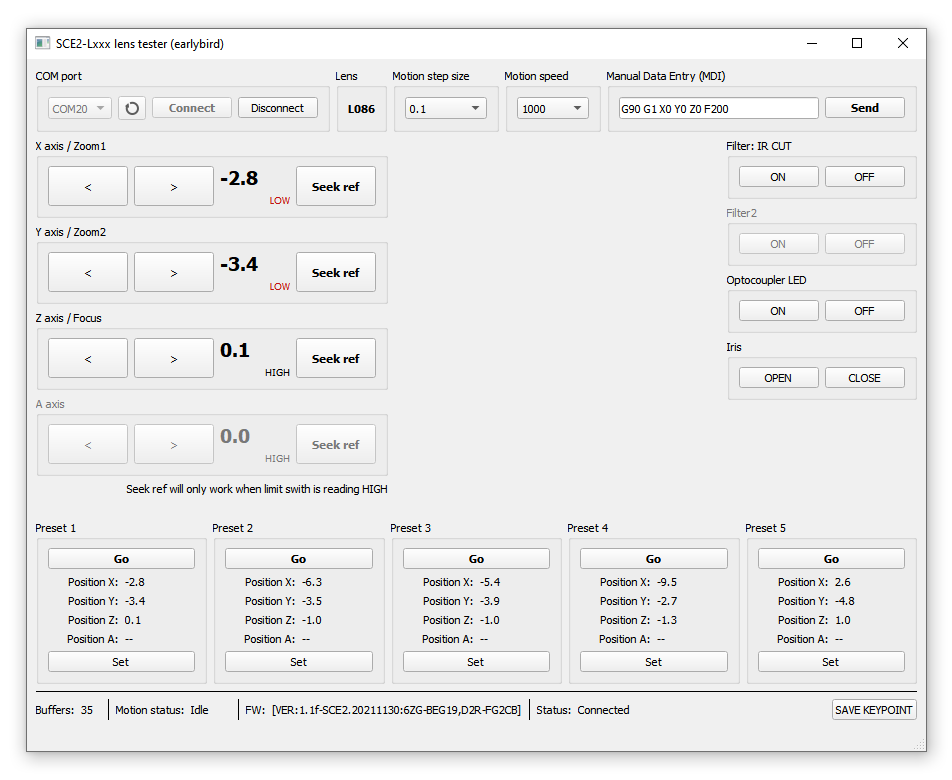
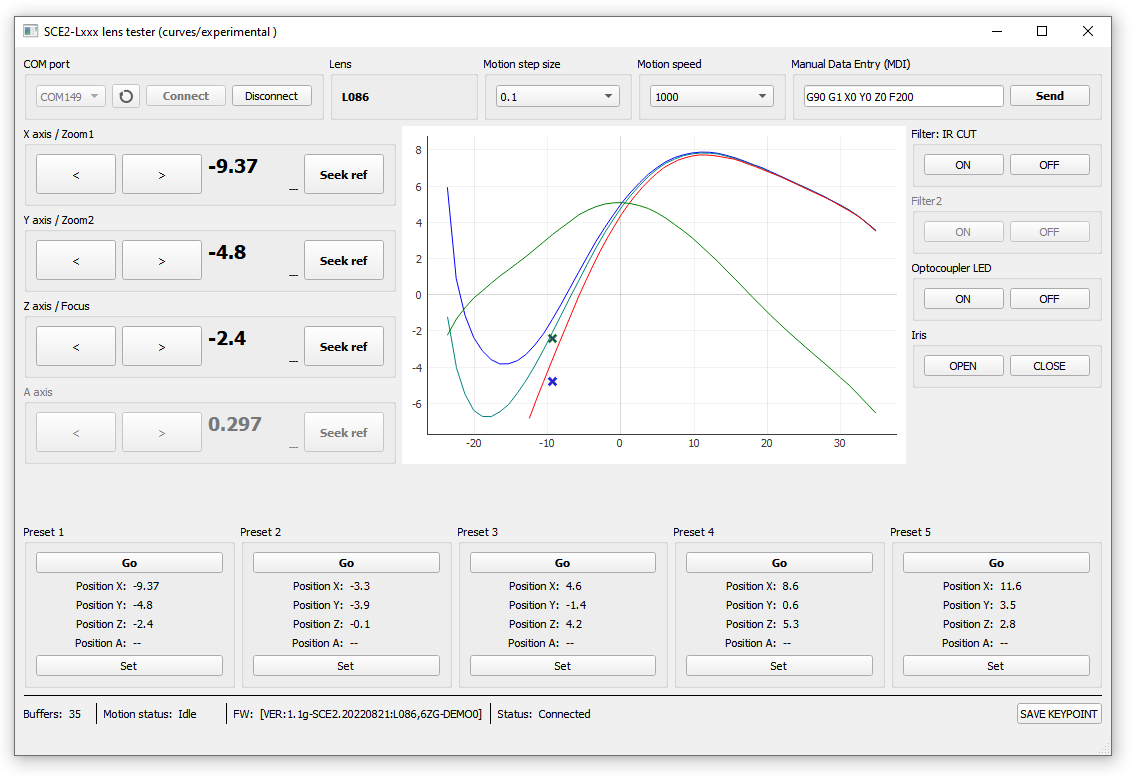
housekeeping

diff --git a/04_lens_tester_gui_curves/main.py b/04_lens_tester_gui_curves/main.py
@@ -84,6 +84,7 @@ class MyWindowClass(QtWidgets.QMainWindow, gui.Ui_MainWindow):
 
         # wwwwwwwwwwwwwwwwwwwwwwwwwwwwwwwww
 
+        '''
         #self.plot = self.win.addPlot(axisItems={'bottom': TimeAxisItem(orientation='bottom')})
         self.plot = self.win.addPlot()
         self.plot.showGrid(True, True, 0.2)
@@ -101,7 +102,6 @@ class MyWindowClass(QtWidgets.QMainWindow, gui.Ui_MainWindow):
         #pfill = pg.FillBetweenItem(self.phigh, self.plow, brush=(100, 255, 100, 100))
         #self.plot.addItem(pfill)
         
-        
         # TODO: move to config file, plot once loaded
         # TODO: clean after fresh load
         # TODO: add legend
@@ -113,7 +113,7 @@ class MyWindowClass(QtWidgets.QMainWindow, gui.Ui_MainWindow):
         self.plot_focus_inf.setData(x=zoom_inf, y=focus_inf)
 
         zoom_correction = [-23.18, -21.98, -20.8, -19.6, -18.41, -17.22, -16.02, -14.83, -13.63, -12.45, -11.25, -10.06, -8.871, -7.675, -6.479, -5.294, -4.098, -2.902, -1.717, -0.5213, 0.6746, 1.87, 3.056, 4.252, 5.447, 6.633, 7.828, 9.024, 10.21, 11.41, 12.6, 13.8, 14.98, 16.18, 17.37, 18.56, 19.76, 20.95, 22.14, 23.33, 24.53, 25.71, 26.91, 28.1, 29.3, 30.49, 31.68, 32.88, 34.06, 35.26]
-        correction = [-1.71, -0.84, -0.216, 0.323, 0.724, 1.14, 1.54, 1.89, 2.26, 2.62, 3.02, 3.42, 3.82, 4.19, 4.54, 4.91, 5.16, 5.37, 5.51, 5.58, 5.59, 5.53, 5.42, 5.26, 5.02, 4.73, 4.38, 4.03, 3.65, 3.21, 2.76, 2.31, 1.81, 1.33, 0.83, 0.333, -0.153, -0.639, -1.09, -1.54, -1.97, -2.39, -2.81, -3.22, -3.64, -4.08, -4.5, -5, -5.5, -6.01]        
+        correction = [-1.71, -0.84, -0.216, 0.323, 0.724, 1.14, 1.54, 1.89, 2.26, 2.62, 3.02, 3.42, 3.82, 4.19, 4.54, 4.91, 5.16, 5.37, 5.51, 5.58, 5.59, 5.53, 5.42, 5.26, 5.02, 4.73, 4.38, 4.03, 3.65, 3.21, 2.76, 2.31, 1.81, 1.33, 0.83, 0.333, -0.153, -0.639, -1.09, -1.54, -1.97, -2.39, -2.81, -3.22, -3.64, -4.08, -4.5, -5, -5.5, -6.01]
         zoom_correction = [x-pull_off for x in zoom_correction]
         correction = [x-pull_off for x in correction]
         self.plot_correction.setData(x=zoom_correction, y=correction)
@@ -131,8 +131,6 @@ class MyWindowClass(QtWidgets.QMainWindow, gui.Ui_MainWindow):
         self.plot_focus_ir.setData(x=zoom_ir, y=focus_ir)
 
 
-
-
         # scater data
         self.scatter_focus_zoom = self.plot.plot(pen=None, symbol='x', symbolPen="blue")
         self.scatter_compensate = self.plot.plot(pen=None, symbol='x', symbolPen="green")
@@ -141,8 +139,7 @@ class MyWindowClass(QtWidgets.QMainWindow, gui.Ui_MainWindow):
         #self.scatter_focus_zoom.setData([0], y_data)
         #self.scatter_compensate.setData(x_data, y_data)
 
-        # wwwwwwwwwwwwwwwwwwwwwwwwwwwwwwwww
-
+        '''
 
 
 
@@ -863,6 +860,67 @@ class MyWindowClass(QtWidgets.QMainWindow, gui.Ui_MainWindow):
                     self.group_a_axis.setTitle("A axis / " + self.config["lens"][self.lens_name]["motor"]["function"]["axis_a"])
 
 
+
+
+                # ------------------
+
+                #self.plot = self.win.addPlot(axisItems={'bottom': TimeAxisItem(orientation='bottom')})
+                self.plot = self.win.addPlot()
+                self.plot.showGrid(True, True, 0.2)
+                self.plot.setMenuEnabled(enableMenu=False)
+                self.plot.hideButtons()
+                self.plot.setMouseEnabled(x=False, y=False)
+                self.plot_focus_inf = self.plot.plot(pen='blue')
+                self.plot_focus_near = self.plot.plot(pen='teal')
+                self.plot_focus_ir = self.plot.plot(pen='red')
+                self.plot_correction = self.plot.plot(pen='green')
+                
+                # self.curve = plot.plot(pen=pg.mkPen('r', width=2)) # slow
+                #self.phigh = self.plot.plot(pen=(50, 200, 50, 100))
+                #self.plow = self.plot.plot(pen=(50, 200, 50, 100))
+                #pfill = pg.FillBetweenItem(self.phigh, self.plow, brush=(100, 255, 100, 100))
+                #self.plot.addItem(pfill)
+                
+                # TODO: move to config file, plot once loaded
+                # TODO: clean after fresh load
+                # TODO: add legend
+                pull_off = 0.5
+                zoom_inf = [-23.2, -22, -20.81, -19.62, -18.43, -17.23, -16.04, -14.85, -13.65, -12.46, -11.26, -10.08, -8.882, -7.686, -6.49, -5.305, -4.109, -2.913, -1.717, -0.5319, 0.664, 1.86, 3.056, 4.241, 5.437, 6.633, 7.828, 9.014, 10.21, 11.41, 12.6, 13.79, 14.98, 16.18, 17.37, 18.56, 19.76, 20.95, 22.15, 23.33, 24.53, 25.72, 26.92, 28.1, 29.3, 30.5, 31.69, 32.88, 34.07, 35.27]
+                focus_inf = [6.41, 1.39, -0.626, -1.86, -2.6, -3.08, -3.32, -3.31, -3.14, -2.79, -2.27, -1.65, -0.859, -0.0256, 0.857, 1.73, 2.6, 3.45, 4.21, 4.92, 5.6, 6.18, 6.69, 7.16, 7.53, 7.85, 8.08, 8.23, 8.33, 8.38, 8.37, 8.31, 8.19, 8.05, 7.88, 7.69, 7.52, 7.3, 7.08, 6.86, 6.63, 6.42, 6.19, 5.96, 5.7, 5.45, 5.18, 4.85, 4.48, 4.08]
+                zoom_inf = [x-pull_off for x in zoom_inf]
+                focus_inf = [x-pull_off for x in focus_inf]
+                self.plot_focus_inf.setData(x=zoom_inf, y=focus_inf)
+
+                zoom_correction = [-23.18, -21.98, -20.8, -19.6, -18.41, -17.22, -16.02, -14.83, -13.63, -12.45, -11.25, -10.06, -8.871, -7.675, -6.479, -5.294, -4.098, -2.902, -1.717, -0.5213, 0.6746, 1.87, 3.056, 4.252, 5.447, 6.633, 7.828, 9.024, 10.21, 11.41, 12.6, 13.8, 14.98, 16.18, 17.37, 18.56, 19.76, 20.95, 22.14, 23.33, 24.53, 25.71, 26.91, 28.1, 29.3, 30.49, 31.68, 32.88, 34.06, 35.26]
+                correction = [-1.71, -0.84, -0.216, 0.323, 0.724, 1.14, 1.54, 1.89, 2.26, 2.62, 3.02, 3.42, 3.82, 4.19, 4.54, 4.91, 5.16, 5.37, 5.51, 5.58, 5.59, 5.53, 5.42, 5.26, 5.02, 4.73, 4.38, 4.03, 3.65, 3.21, 2.76, 2.31, 1.81, 1.33, 0.83, 0.333, -0.153, -0.639, -1.09, -1.54, -1.97, -2.39, -2.81, -3.22, -3.64, -4.08, -4.5, -5, -5.5, -6.01]
+                zoom_correction = [x-pull_off for x in zoom_correction]
+                correction = [x-pull_off for x in correction]
+                self.plot_correction.setData(x=zoom_correction, y=correction)
+
+                zoom_near = [-23.19, -21.99, -20.81, -19.61, -18.42, -17.23, -16.04, -14.84, -13.64, -12.46, -11.26, -10.07, -8.882, -7.686, -6.49, -5.305, -4.109, -2.913, -1.728, -0.5319, 0.664, 1.86, 3.045, 4.241, 5.437, 6.622, 7.818, 9.014, 10.2, 11.39, 12.59, 13.79, 14.97, 16.17, 17.36, 18.55, 19.74, 20.94, 22.13, 23.32, 24.52, 25.7, 26.9, 28.09, 29.29, 30.48, 31.67, 32.87, 34.05, 35.25]
+                focus_near = [-0.744, -3.51, -4.99, -5.89, -6.22, -6.23, -5.96, -5.56, -4.92, -4.23, -3.42, -2.53, -1.59, -0.629, 0.332, 1.25, 2.19, 3.09, 3.92, 4.67, 5.38, 6, 6.54, 7.03, 7.44, 7.77, 7.99, 8.18, 8.28, 8.33, 8.32, 8.27, 8.15, 8.01, 7.84, 7.67, 7.48, 7.27, 7.06, 6.84, 6.62, 6.4, 6.18, 5.95, 5.7, 5.43, 5.17, 4.86, 4.47, 4.06]
+                zoom_near = [x-pull_off for x in zoom_near]
+                focus_near = [x-pull_off for x in focus_near]
+                self.plot_focus_near.setData(x=zoom_near, y=focus_near)
+
+                zoom_ir = [-11.99, -11.03, -10.07, -9.104, -8.141, -7.167, -6.204, -5.241, -4.278, -3.315, -2.352, -1.389, -0.426, 0.537, 1.5, 2.474, 3.437, 4.4, 5.363, 6.326, 7.289, 8.252, 9.215, 10.18, 11.14, 12.11, 13.08, 14.04, 15, 15.97, 16.93, 17.89, 18.86, 19.82, 20.78, 21.76, 22.72, 23.68, 24.64, 25.61, 26.57, 27.53, 28.5, 29.46, 30.42, 31.4, 32.36, 33.32, 34.29, 35.25]
+                focus_ir = [-6.3, -5.26, -4.29, -3.32, -2.36, -1.42, -0.489, 0.442, 1.29, 2.12, 2.9, 3.62, 4.28, 4.92, 5.48, 5.98, 6.44, 6.84, 7.2, 7.51, 7.73, 7.93, 8.06, 8.16, 8.22, 8.22, 8.19, 8.13, 8.06, 7.99, 7.86, 7.71, 7.58, 7.42, 7.26, 7.11, 6.94, 6.76, 6.58, 6.39, 6.21, 6.03, 5.85, 5.65, 5.42, 5.2, 4.97, 4.71, 4.38, 4.04]
+                zoom_ir = [x-pull_off for x in zoom_ir]
+                focus_ir = [x-pull_off for x in focus_ir]
+                self.plot_focus_ir.setData(x=zoom_ir, y=focus_ir)
+
+
+                # scater data
+                self.scatter_focus_zoom = self.plot.plot(pen=None, symbol='x', symbolPen="blue")
+                self.scatter_compensate = self.plot.plot(pen=None, symbol='x', symbolPen="green")
+                #x_data = [0]
+                #y_data = [0]
+                #self.scatter_focus_zoom.setData([0], y_data)
+                #self.scatter_compensate.setData(x_data, y_data)
+
+
+
+
                 
 
     def serFeedback(self, text):
@@ -900,8 +958,9 @@ class MyWindowClass(QtWidgets.QMainWindow, gui.Ui_MainWindow):
 
 
         # setting data to the scatter plot
-        self.scatter_focus_zoom.setData([s.pos_x], [s.pos_y])
-        self.scatter_compensate.setData([s.pos_x], [s.pos_z])
+        if self.lens_name:
+            self.scatter_focus_zoom.setData([s.pos_x], [s.pos_y])
+            self.scatter_compensate.setData([s.pos_x], [s.pos_z])
 
         self.label_x_pos.setText(str(round(s.pos_x,3)))
         self.label_y_pos.setText(str(round(s.pos_y,3)))
@@ -1134,4 +1193,3 @@ app.setStyle('Fusion')
 myWindow = MyWindowClass(None)
 myWindow.show()
 app.exec_()
-

diff --git a/04_lens_tester_gui_curves/gui.py b/04_lens_tester_gui_curves/gui.py
@@ -281,10 +281,6 @@ class Ui_MainWindow(object):
         self.gridLayout_18.addWidget(self.btn_a_seek, 0, 4, 1, 1)
         self.horizontalLayout_19.addWidget(self.group_a_axis)
         self.verticalLayout.addLayout(self.horizontalLayout_19)
-        self.label = QtWidgets.QLabel(self.centralwidget)
-        self.label.setAlignment(QtCore.Qt.AlignRight|QtCore.Qt.AlignTrailing|QtCore.Qt.AlignVCenter)
-        self.label.setObjectName("label")
-        self.verticalLayout.addWidget(self.label)
         self.horizontalLayout_3.addLayout(self.verticalLayout)
         self.win = GraphicsLayoutWidget(self.centralwidget)
         sizePolicy = QtWidgets.QSizePolicy(QtWidgets.QSizePolicy.Expanding, QtWidgets.QSizePolicy.Preferred)
@@ -905,7 +901,6 @@ class Ui_MainWindow(object):
         self.label_a_pos.setText(_translate("MainWindow", "---"))
         self.label_a_pi.setText(_translate("MainWindow", "---"))
         self.btn_a_seek.setText(_translate("MainWindow", "Seek ref"))
-        self.label.setText(_translate("MainWindow", "Seek ref will only work when limit swith is reading HIGH"))
         self.group_filter1.setTitle(_translate("MainWindow", "Filter1"))
         self.btn_f1_on.setText(_translate("MainWindow", "ON"))
         self.btn_f1_off.setText(_translate("MainWindow", "OFF"))

diff --git a/04_lens_tester_gui_curves/version.py b/04_lens_tester_gui_curves/version.py
@@ -1,6 +1,6 @@
 __author__ = "Saulius Lukse"
 __copyright__ = "Copyright 2015-2021, Kurokesu"
-__version__ = "beta"
+__version__ = "curves/experimental "
 
 if __name__ == "__main__":
     print(__version__)
